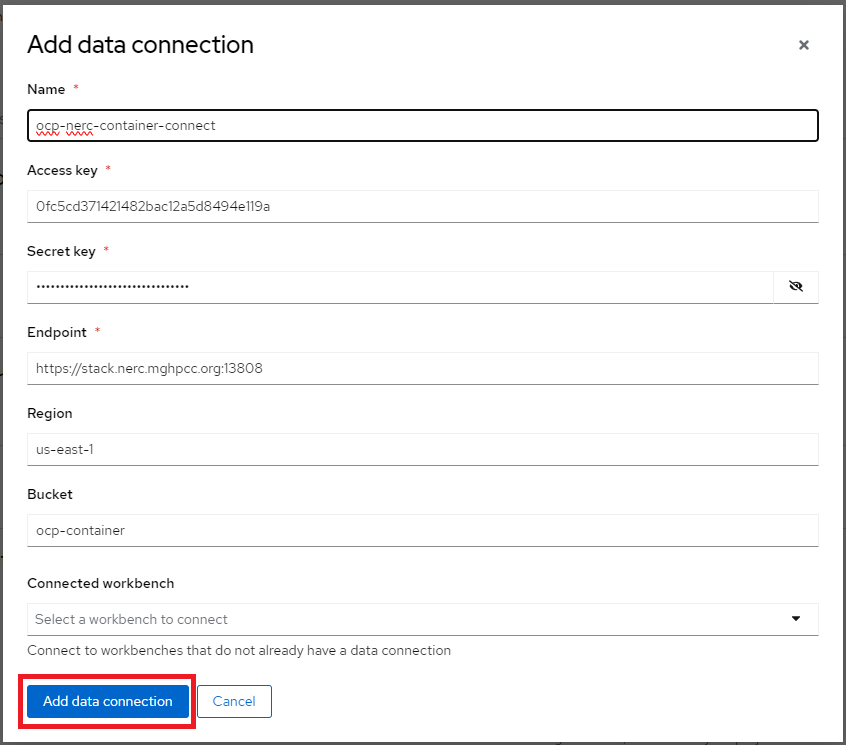
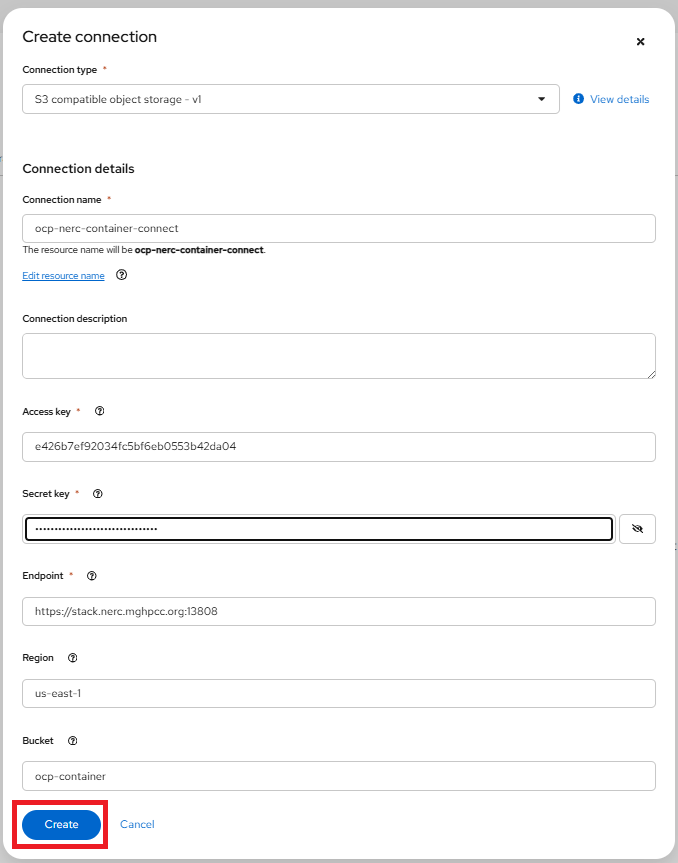
updated information about Single Model serving

diff --git a/docs/openshift-ai/data-science-project/model-serving-in-the-rhoai.md b/docs/openshift-ai/data-science-project/model-serving-in-the-rhoai.md
@@ -16,11 +16,25 @@ window as shown below:
 
 ![Create Connection](images/create-connection.png)
 
-Connections are configurations for remote data location. Within this window,
-enter the information about the S3-compatible object bucket where the model is stored.
-Enter the following information:
+Connections are configurations for remote data location. In the Add connection modal,
+select a Connection type. The **OCI-compliant registry**,
+**S3 compatible object storage**, and **URI** options are pre-installed connection
+types. Please select "S3 compatible object storage - v1" as your *Connection type*
+as shown below:
 
--   **Name**: The name you want to give to the connection.
+![Connection Type Selection Options](images/connection-type-selection.png)
+
+Within this window, enter the information about the S3-compatible object bucket
+where the model is stored. Enter the following information:
+
+-   **Connection name**: Enter a unique name for the connection. A resource name
+    is generated based on the name of the connection. A resource name is the label
+    for the underlying resource in OpenShift.
+
+    **Optional:** Edit the default resource name. Note that you cannot change the
+    resource name after you create the connection.
+
+    **Optional:** Provide a description of the connection.
 
 -   **Access Key**: The access key to the bucket.
 
@@ -71,10 +85,16 @@ as `https://stack.nerc.mghpcc.org:13808`, and the **Region** should be set as `u
 
     **ONNX**: An open standard for machine learning interoperability.
 
-After completing the required fields, click **Create connection**. You should
-now see the connection displayed in the main project window as shown below:
+After completing the required fields, click **Create**. You should now see the
+connection displayed in the main project window as shown below:
 
 ![New Connection Info](images/data-connection-info.png)
+
+!!! tip "Other Connection Type"
+
+    If you selected **URI** in the preceding step, in the URI field, enter the
+    Uniform Resource Identifier (URI). If you selected **OCI-compliant registry**
+    in the preceding step, in the OCI storage location field, enter the URI.
 
 ## Create a model server
 
@@ -102,6 +122,68 @@ for:
 The single-model serving platform is based on the [KServe](https://github.com/kserve/kserve)
 component.
 
+When you select "Single-model serving platform", you will be directly able to
+deploy model by clicking **Deploy model** button as shown below:
+
+![Single-model serving platform](images/single-model-serving.png)
+
+In the pop-up window that appears, you can specify the following details:
+
+-   **Model deployment name**: This is the name of the inference service created
+    when the model is deployed.
+
+-   **Serving runtime**: Select a model-serving runtime framework from the available
+    options in your OpenShift Data Science deployment. This framework is used to
+    deploy and serve machine learning models.
+
+-   **Model framework (name - version)**: This will be auto selected based on your
+    Serving runtime selection.
+
+-   **Deployment mode**: Deployment modes define which technology stack will be
+    used to deploy a model, offering different levels of management and scalability.
+    The options available are:
+
+-   **Advanced**: Advanced deployment mode uses *Knative Serverless*. By default,
+        KServe integrates with Red Hat OpenShift Serverless and Red Hat OpenShift
+        Service Mesh to deploy models on the single-model serving platform.
+
+-   **Standard**: Alternatively, you can use standard deployment mode, which
+        uses KServe RawDeployment mode.
+
+-   **Number of model server replicas to deploy**: This is the number of instances
+    of the model server engine that you want to deploy. You can scale it up as needed,
+    depending on the number of requests you will receive.
+
+-   **Model server size**: This is the amount of resources, CPU, and RAM that will
+    be allocated to your server. Select the appropriate configuration for size and
+    the complexity of your model.
+
+-   **Accelerator**: This allows you to add a **GPU** to your model server, enabling
+    it to leverage optimized hardware for faster inference and improved efficiency.
+
+-   **Model route**: Check this box if you want the serving endpoint (the model serving
+    API) to be accessible outside of the OpenShift cluster through an external route.
+
+-   **Token authorization**: Check this box if you want to secure or restrict access
+    to the model by forcing requests to provide an authorization token.
+
+-   **Source model location**: To specify the location of your model, either select
+    an existing connection you previously created or create a new one.
+
+    !!! warning "Very Important"
+
+        If your connection type is an **S3-compatible object storage**, you must
+        provide the folder path that contains your data file. The
+        **OpenVINO Model Server** runtime has specific requirements for how you
+        specify the model path. For more information, see known issue [RHOAIENG-3025](https://docs.redhat.com/en/documentation/red_hat_openshift_ai_cloud_service/1/html-single/release_notes/index#known-issues_RHOAIENG-3025_relnotes)
+        in the OpenShift AI release notes.
+
+-   **Optional**: Customize the runtime parameters in the Configuration parameters
+    section.
+
+After adding and selecting options within the **Deploy model** pop-up window,
+click **Deploy** to create the model server.
+
 **2. Multi-Model Serving**:
 
 All models within the project are deployed on a shared model server. This setup
@@ -114,19 +196,8 @@ is best suited for:
 The multi-model serving platform is based on the [ModelMesh](https://github.com/kserve/modelmesh)
 component.
 
-!!! note "Important Note"
-
-    You can change the model serving type before the first model is deployed from
-    this project. After deployment, switching types requires deleting all models
-    and servers.
-
-When you select "Single-model serving platform", you will be directly able to
-deploy model by clicking **Deploy model** button as shown below:
-
-![Single-model serving platform](images/single-model-serving.png)
-
-Whereas, when you select "Multi-model serving platform", you will be to create
-a model server by clicking **Add model server** button as shown below:
+When you select "Multi-model serving platform", you will be to create a model
+server by clicking **Add model server** button as shown below:
 
 ![Multi-model serving platform](images/add-multi-model-server.png)
 
@@ -163,6 +234,8 @@ In the pop-up window that appears, you can specify the following details:
 
 After adding and selecting options within the **Add model server** pop-up
 window, click **Add** to create the model server.
+
+---
 
 For our example project, we will choose "Multi-model serving platform" and then
 add a new model server and let's name the **Model server** as "coolstore-modelserver".
